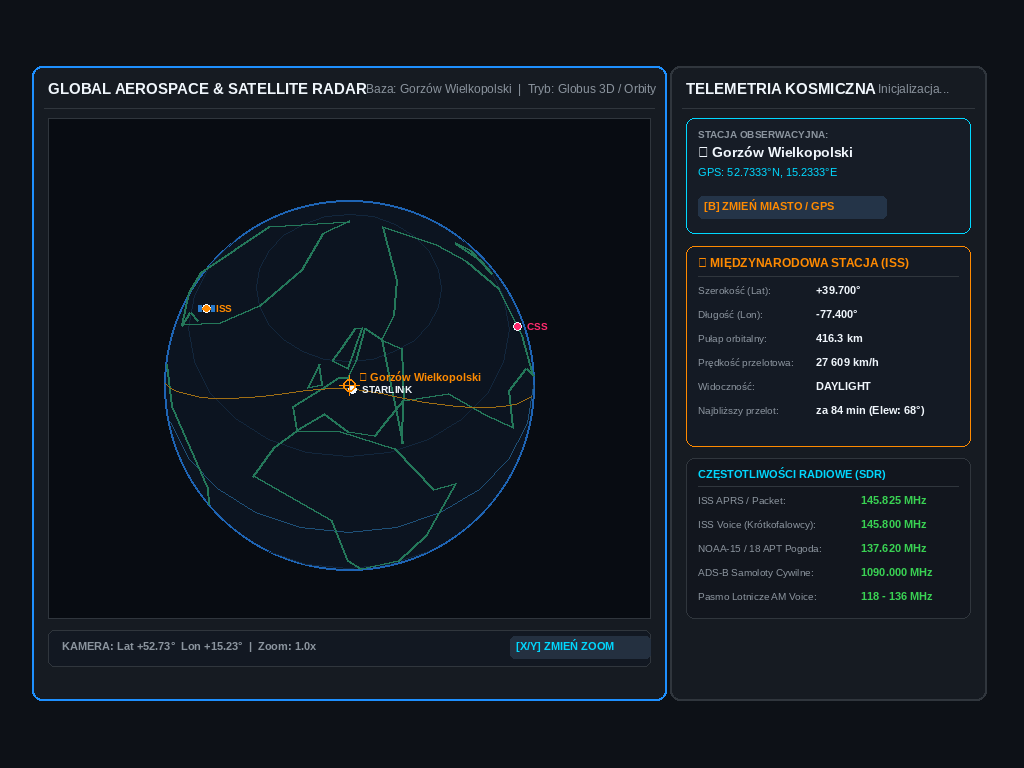
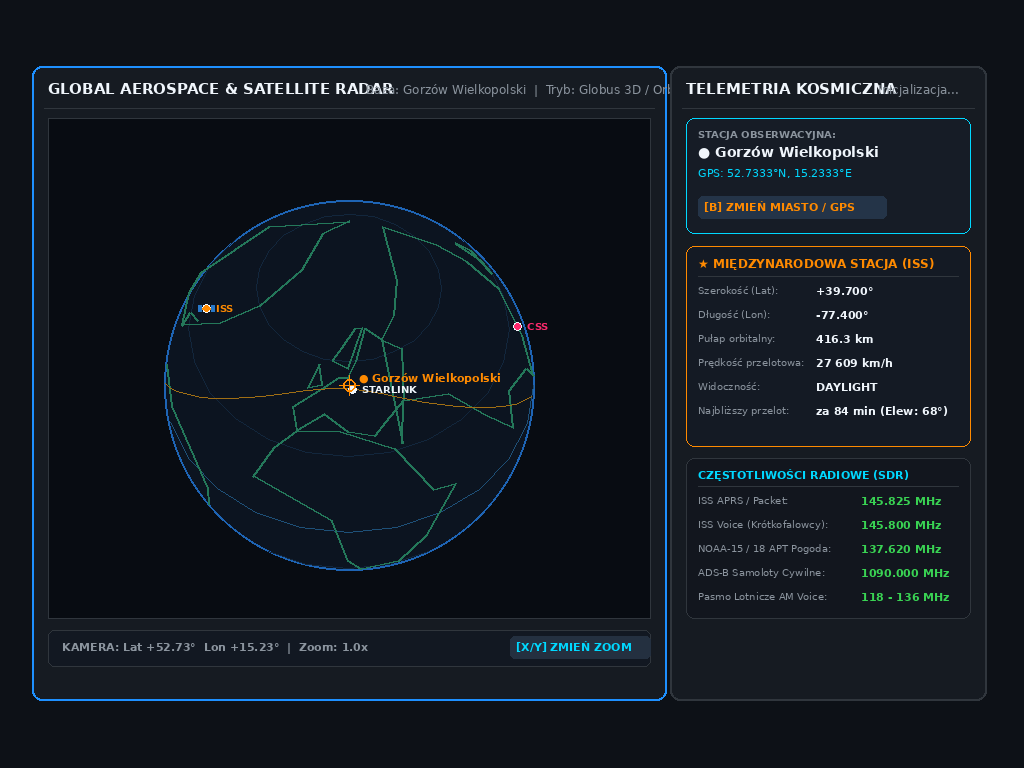
fix(air_radar): replace emojis with retro glyphs and enhance Polish character font rendering

diff --git a/wasm.html b/wasm.html
@@ -643,6 +643,15 @@
             pyodide.FS.writeFile("/default.ttf", new Uint8Array(fontBuf));
             log("[+] Załadowano pełną czcionkę TrueType z polskimi znakami (DejaVu Sans).");
           }
+
+          let boldResp = await fetch("assets/fonts/default-bold.ttf?v=" + Date.now());
+          if (!boldResp.ok) {
+            boldResp = await fetch("https://cdn.jsdelivr.net/npm/dejavu-fonts-ttf@2.37.3/ttf/DejaVuSans-Bold.ttf");
+          }
+          if (boldResp.ok) {
+            const boldBuf = await boldResp.arrayBuffer();
+            pyodide.FS.writeFile("/default-bold.ttf", new Uint8Array(boldBuf));
+          }
         } catch(fErr) {
           log("[*] Czcionka domyślna Pillow aktywna.");
         }
@@ -685,6 +694,11 @@ if "flipper_proto" not in sys.modules:
 # 4. BrickDeck Core Engine Shims
 def get_font(size=14, bold=False):
     import os
+    if bold and os.path.exists("/default-bold.ttf"):
+        try:
+            return ImageFont.truetype("/default-bold.ttf", size)
+        except Exception:
+            pass
     if os.path.exists("/default.ttf"):
         try:
             return ImageFont.truetype("/default.ttf", size)

diff --git a/Apps/BrickDeck/modules/004_mod_air_radar.py b/Apps/BrickDeck/modules/004_mod_air_radar.py
@@ -68,7 +68,7 @@ CONTINENTS_GEO = [
 class AirRadarModule(BaseModule):
     name = "Global Aerospace & Satellite Radar"
     short_name = "AeroSpace"
-    icon = "🛰"
+    icon = "★"
     accent_color = COLOR_ELECTRIC_BLUE
 
     def __init__(self, app_context=None):
@@ -223,7 +223,7 @@ class AirRadarModule(BaseModule):
                         })
                     if parsed:
                         self.flights = parsed
-                        self.status_msg = f"LIVE ADS-B ({len(parsed)} wozów) & ISS"
+                        self.status_msg = f"LIVE ADS-B ({len(parsed)} samolotów) & ISS"
                         self.last_fetch_time = time.time()
         except Exception:
             if not self.flights:
@@ -430,7 +430,7 @@ class AirRadarModule(BaseModule):
             canvas.draw.ellipse([(ox - 6, oy - 6), (ox + 6, oy + 6)], outline=COLOR_FLIPPER_AMBER, width=2)
             canvas.draw.line([(ox - 10, oy), (ox + 10, oy)], fill=COLOR_FLIPPER_AMBER, width=1)
             canvas.draw.line([(ox, oy - 10), (ox, oy + 10)], fill=COLOR_FLIPPER_AMBER, width=1)
-            canvas.draw.text((ox + 10, oy - 14), f"🎯 {self.obs_name}", fill=COLOR_FLIPPER_AMBER, font=get_font(11, bold=True))
+            canvas.draw.text((ox + 10, oy - 14), f"● {self.obs_name}", fill=COLOR_FLIPPER_AMBER, font=get_font(11, bold=True))
 
         # Bottom Zoom Slider & Orientation Info
         z_y = vy + vh + 12
@@ -455,14 +455,14 @@ class AirRadarModule(BaseModule):
         # 1. Observer Station Box
         canvas.draw.rounded_rectangle([(rx, ry), (rx + rw, ry + 115)], radius=8, fill=(22, 28, 38), outline=COLOR_CYBER_CYAN, width=1)
         canvas.draw.text((rx + 12, ry + 10), "STACJA OBSERWACYJNA:", fill=COLOR_TEXT_SECONDARY, font=get_font(10, bold=True))
-        canvas.draw.text((rx + 12, ry + 26), f"🎯 {self.obs_name[:20]}", fill=COLOR_TEXT_PRIMARY, font=get_font(14, bold=True))
+        canvas.draw.text((rx + 12, ry + 26), f"● {self.obs_name[:20]}", fill=COLOR_TEXT_PRIMARY, font=get_font(14, bold=True))
         canvas.draw.text((rx + 12, ry + 48), f"GPS: {self.obs_lat:.4f}°N, {self.obs_lon:.4f}°E", fill=COLOR_CYBER_CYAN, font=get_font(11, bold=False))
         canvas.draw_badge(rx + 12, ry + 78, "[B] ZMIEŃ MIASTO / GPS", bg_color=(36, 52, 72), text_color=COLOR_FLIPPER_AMBER)
 
         # 2. ISS Real-Time Flight Card
         iss_y = ry + 128
         canvas.draw.rounded_rectangle([(rx, iss_y), (rx + rw, iss_y + 200)], radius=8, fill=(20, 26, 36), outline=COLOR_FLIPPER_AMBER, width=1)
-        canvas.draw.text((rx + 12, iss_y + 10), "🛰 MIĘDZYNARODOWA STACJA (ISS)", fill=COLOR_FLIPPER_AMBER, font=get_font(12, bold=True))
+        canvas.draw.text((rx + 12, iss_y + 10), "★ MIĘDZYNARODOWA STACJA (ISS)", fill=COLOR_FLIPPER_AMBER, font=get_font(12, bold=True))
         canvas.draw.line([(rx + 12, iss_y + 30), (rx + rw - 12, iss_y + 30)], fill=COLOR_BORDER, width=1)
 
         iss_items = [

diff --git a/store/modules/004_mod_air_radar.py b/store/modules/004_mod_air_radar.py
@@ -68,7 +68,7 @@ CONTINENTS_GEO = [
 class AirRadarModule(BaseModule):
     name = "Global Aerospace & Satellite Radar"
     short_name = "AeroSpace"
-    icon = "🛰"
+    icon = "★"
     accent_color = COLOR_ELECTRIC_BLUE
 
     def __init__(self, app_context=None):
@@ -223,7 +223,7 @@ class AirRadarModule(BaseModule):
                         })
                     if parsed:
                         self.flights = parsed
-                        self.status_msg = f"LIVE ADS-B ({len(parsed)} wozów) & ISS"
+                        self.status_msg = f"LIVE ADS-B ({len(parsed)} samolotów) & ISS"
                         self.last_fetch_time = time.time()
         except Exception:
             if not self.flights:
@@ -430,7 +430,7 @@ class AirRadarModule(BaseModule):
             canvas.draw.ellipse([(ox - 6, oy - 6), (ox + 6, oy + 6)], outline=COLOR_FLIPPER_AMBER, width=2)
             canvas.draw.line([(ox - 10, oy), (ox + 10, oy)], fill=COLOR_FLIPPER_AMBER, width=1)
             canvas.draw.line([(ox, oy - 10), (ox, oy + 10)], fill=COLOR_FLIPPER_AMBER, width=1)
-            canvas.draw.text((ox + 10, oy - 14), f"🎯 {self.obs_name}", fill=COLOR_FLIPPER_AMBER, font=get_font(11, bold=True))
+            canvas.draw.text((ox + 10, oy - 14), f"● {self.obs_name}", fill=COLOR_FLIPPER_AMBER, font=get_font(11, bold=True))
 
         # Bottom Zoom Slider & Orientation Info
         z_y = vy + vh + 12
@@ -455,14 +455,14 @@ class AirRadarModule(BaseModule):
         # 1. Observer Station Box
         canvas.draw.rounded_rectangle([(rx, ry), (rx + rw, ry + 115)], radius=8, fill=(22, 28, 38), outline=COLOR_CYBER_CYAN, width=1)
         canvas.draw.text((rx + 12, ry + 10), "STACJA OBSERWACYJNA:", fill=COLOR_TEXT_SECONDARY, font=get_font(10, bold=True))
-        canvas.draw.text((rx + 12, ry + 26), f"🎯 {self.obs_name[:20]}", fill=COLOR_TEXT_PRIMARY, font=get_font(14, bold=True))
+        canvas.draw.text((rx + 12, ry + 26), f"● {self.obs_name[:20]}", fill=COLOR_TEXT_PRIMARY, font=get_font(14, bold=True))
         canvas.draw.text((rx + 12, ry + 48), f"GPS: {self.obs_lat:.4f}°N, {self.obs_lon:.4f}°E", fill=COLOR_CYBER_CYAN, font=get_font(11, bold=False))
         canvas.draw_badge(rx + 12, ry + 78, "[B] ZMIEŃ MIASTO / GPS", bg_color=(36, 52, 72), text_color=COLOR_FLIPPER_AMBER)
 
         # 2. ISS Real-Time Flight Card
         iss_y = ry + 128
         canvas.draw.rounded_rectangle([(rx, iss_y), (rx + rw, iss_y + 200)], radius=8, fill=(20, 26, 36), outline=COLOR_FLIPPER_AMBER, width=1)
-        canvas.draw.text((rx + 12, iss_y + 10), "🛰 MIĘDZYNARODOWA STACJA (ISS)", fill=COLOR_FLIPPER_AMBER, font=get_font(12, bold=True))
+        canvas.draw.text((rx + 12, iss_y + 10), "★ MIĘDZYNARODOWA STACJA (ISS)", fill=COLOR_FLIPPER_AMBER, font=get_font(12, bold=True))
         canvas.draw.line([(rx + 12, iss_y + 30), (rx + rw - 12, iss_y + 30)], fill=COLOR_BORDER, width=1)
 
         iss_items = [
